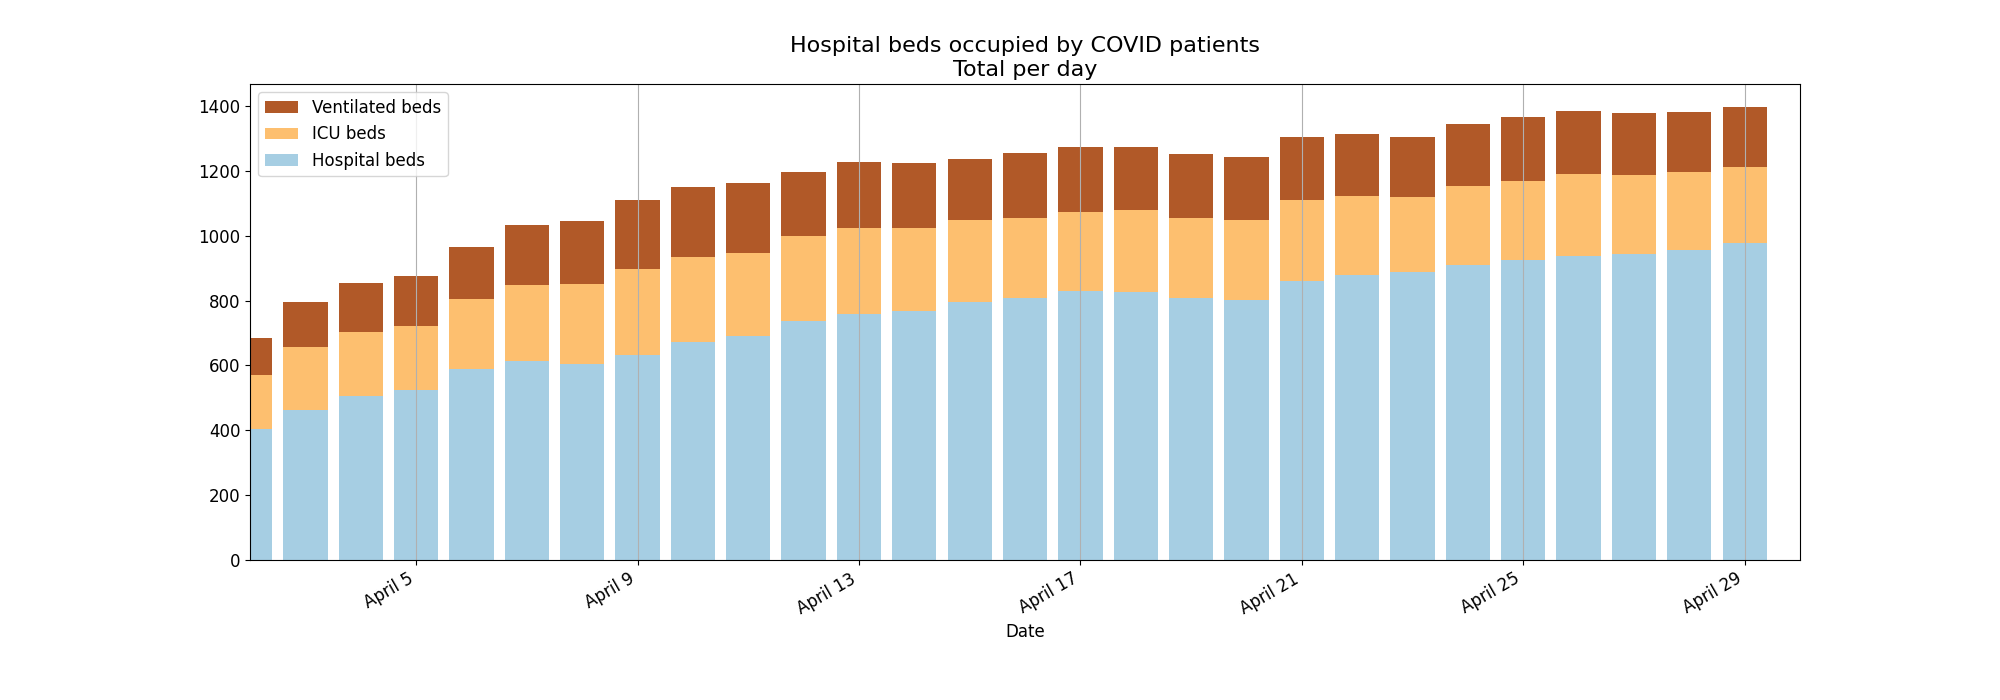
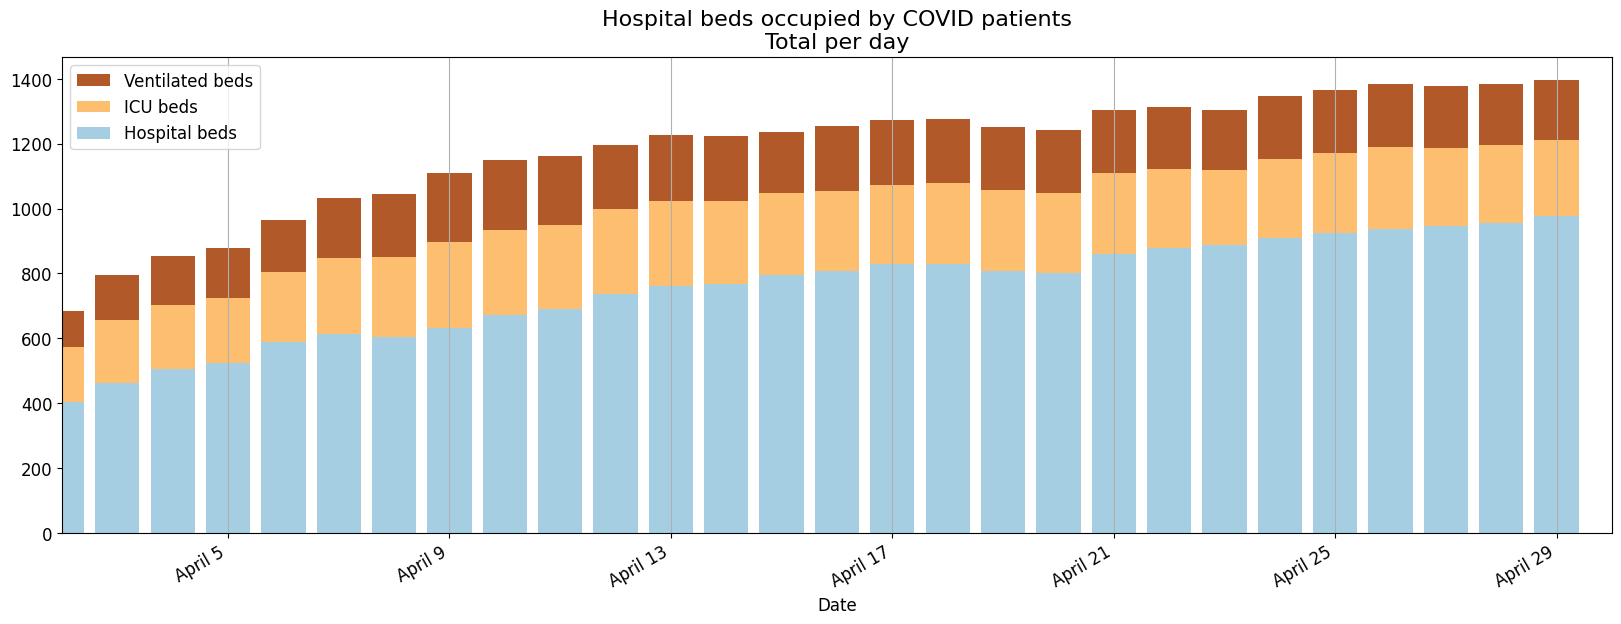
Fix tab size in overview plots

diff --git a/covid_ontario/plot_on_gov_data.py b/covid_ontario/plot_on_gov_data.py
@@ -412,7 +412,7 @@ def main():
         title_append="",
     )
     plt.xlabel("Testing date")
-    fig.savefig(os.path.join(FOLDER_IMAGES, "overview.png"))
+    fig.savefig(os.path.join(FOLDER_IMAGES, "overview.png"), bbox_inches='tight')
 
     # Plot: Hospital load
     healthcare_cols = {
@@ -428,7 +428,7 @@ def main():
         title_append="Hospital beds occupied by COVID patients",
         plot_change=False,
     )
-    fig.savefig(os.path.join(FOLDER_IMAGES, "hospital.png"))
+    fig.savefig(os.path.join(FOLDER_IMAGES, "hospital.png"), bbox_inches='tight')
 
     # Plot: Testing volume
     case_cols = ["Total tests completed in the last day"]
@@ -443,7 +443,7 @@ def main():
     ax = plt.gca()
     ax.legend().set_visible(False)
     plt.xlabel("Testing date")
-    fig.savefig(os.path.join(FOLDER_IMAGES, "testing.png"))
+    fig.savefig(os.path.join(FOLDER_IMAGES, "testing.png"), bbox_inches='tight')
 
     # ----- Second dataset: Confirmed positive COVID-19 cases-----
     # Download and clean up
